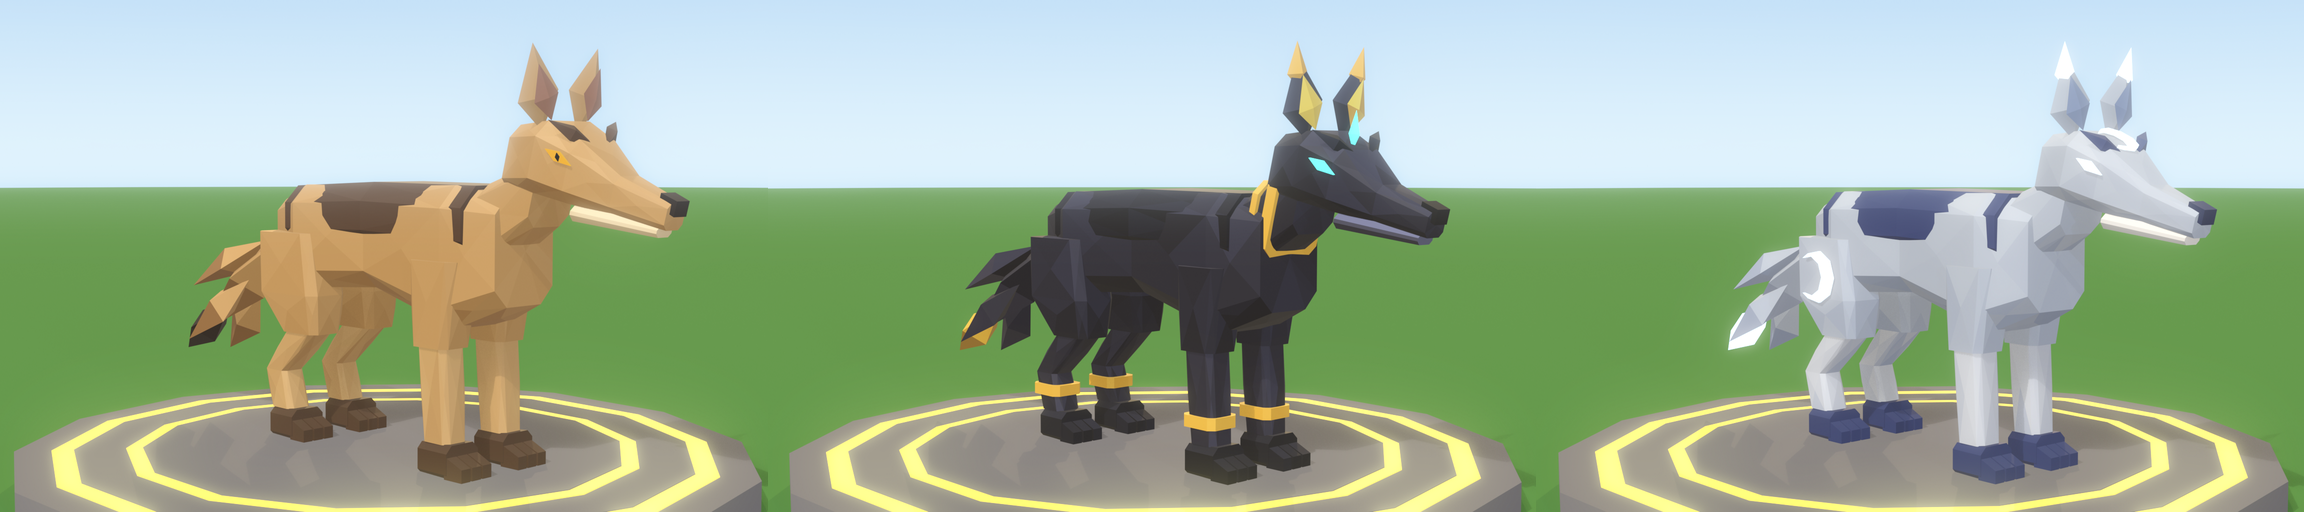
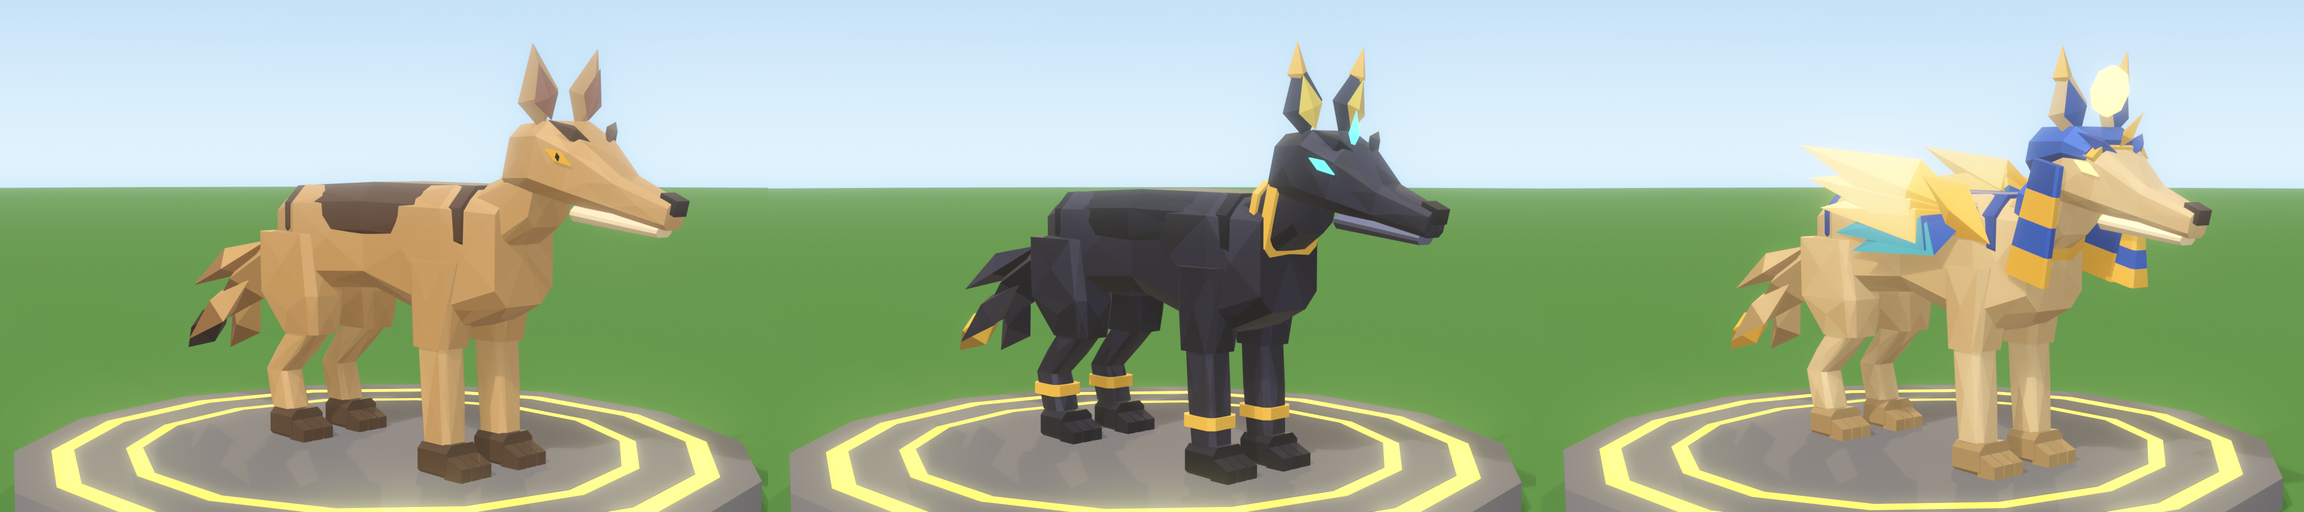
STATION-037: the new jackal variant is a Sphinx Jackal (headdress, sun disc, beard, folded wings), not a Moon Jackal

Changed region(s): [[0.6875, 0.0938, 1.0, 1.0]]

diff --git a/tools/blender/stations/assets/jackals.py b/tools/blender/stations/assets/jackals.py
@@ -1,5 +1,5 @@
 """The jackals (decision 0052), in the faceted low-poly style of the lions and elephants: the Jackal,
-the Pharaoh Jackal and the Moon Jackal. A lean body with a deep chest and a tucked waist on long thin
+the Pharaoh Jackal and the Sphinx Jackal. A lean body with a deep chest and a tucked waist on long thin
 legs, a long narrow muzzle, tall pointed ears, a dark saddle over the back and a bushy tail of leaf
 shards. The hide is textured with facets (`rough`), as on the elephants.
 
@@ -17,10 +17,10 @@ from mathutils import Matrix, Vector
 loft, yring, zring, quad, shard, plate, tone, rough = F.loft, F.yring, F.zring, F.quad, F.shard, F.plate, F.tone, F.rough
 
 SAND = ((0.82, 0.74, 0.66), (1.06, 1.08, 1.12), (6, 8, 10))
-MOONLIT = ((0.74, 0.8, 0.92), (1.05, 1.05, 1.03), (6, 6, 4))  # shadows turn blue
 GOLD = (236, 184, 64)
 TURQUOISE = (60, 230, 220)
-MOON = (160, 205, 255)
+SUNGOLD = (255, 208, 90)
+LAPIS = (38, 72, 168)
 HIND = 1.9  # how far behind the front legs the hind legs stand
 FADE = 1.6  # the hide darkens below this height
 NOD = 14  # degrees the head and neck are tipped down about the neck: a hunter carries its head low
@@ -157,26 +157,45 @@ def pharaoh_jackal():
     )
 
 
-def moon_extra(groups, skull, thighs, rng, glow):
-    """A glowing crescent on the brow and on each haunch, and glowing tips on the ears."""
-    arc = [math.radians(a) for a in range(60, 301, 40)]
-    crescent = [(0.16 * math.cos(a), 0.16 * math.sin(a)) for a in arc] + [(0.07 + 0.125 * math.cos(a), 0.125 * math.sin(a)) for a in reversed(arc)]
-    at, n = k.land(skull, (0, -0.92, 2.7), (0, -0.3, 1))
-    groups["head_glow"].append(plate("crescent", at, k._frame(n, (0, -1, 0)), crescent, 0.025, None, rng, lift=0.012, m=glow))
+def sphinx_extra(groups, skull, thighs, rng, glow):
+    """A pharaoh's striped headdress with its two lappets, a cobra and a glowing sun disc on the brow, a
+    gold beard, a broad collar, and a folded wing of gold and blue feathers down each flank."""
+    gold, blue = tone(GOLD), tone(LAPIS, F.COOL)
+    head, body = groups["head"], groups["body"]
+    # the headdress: a blue cap over the skull behind a gold band; the ears stand through it
+    head.append(loft("cap", [yring(-1.0, 2.79, 0.335, 0.16, 0.09, 0.1), yring(-0.8, 2.81, 0.4, 0.2, 0.13, 0.12), yring(-0.44, 2.72, 0.38, 0.2, 0.2, 0.12)], blue, rng))
+    head.append(loft("band", [yring(y, 2.8, 0.345, 0.11, 0.06, 0.09) for y in (-1.07, -0.98)], gold, rng))
     for s in (1, -1):
-        groups["head_glow"].append(shard((s * 0.34, -0.645, 3.26), (s * 0.395, -0.61, 3.6), 0.22, 0.12, None, rng, at=0.3, m=glow, name="eartip"))
-        at, n = k.land(thighs[s], (s * 0.3, HIND - 0.02, 1.55), (s, 0, 0))
-        fx, fy, fz = k._frame(n)
-        side = "leg_b" + ("l" if s > 0 else "r") + "_glow"
-        groups.setdefault(side, []).append(plate("crescent", at, (fx * s, fy, fz), [(u * 1.5, v * 1.5) for u, v in crescent], 0.025, None, rng, lift=0.014, m=glow))
+        x = s * 0.42
+        for i in range(4):  # a lappet hanging beside the neck, striped blue and gold, wider at the hem
+            z, wide = 2.7 - i * 0.24, 0.14 + i * 0.02
+            head.append(loft("lappet", [zring(x, -0.72, z, 0.045, wide, 0.02), zring(x, -0.72, z - 0.24, 0.045, wide + 0.02, 0.02)], blue if i % 2 == 0 else gold, rng))
+        head.append(shard((s * 0.34, -0.645, 3.26), (s * 0.395, -0.61, 3.6), 0.22, 0.12, gold, rng, at=0.3, name="eartip"))
+    head.append(shard((0, -1.04, 2.9), (0, -1.2, 3.22), 0.13, 0.11, gold, rng, at=0.35, name="cobra"))
+    disc = [(0.2 * math.cos(i * math.tau / 8), 0.2 * math.sin(i * math.tau / 8)) for i in range(8)]
+    groups["head_glow"].append(plate("disc", Vector((0, -0.8, 3.3)), (Vector((1, 0, 0)), Vector((0, 0, 1)), Vector((0, -1, 0))), disc, 0.06, None, rng, m=glow))
+    for i in range(3):  # the false beard: a short striped block under the chin, wider at the hem
+        z, wide = 2.33 - i * 0.14, 0.07 + i * 0.015
+        head.append(loft("beard", [zring(0, -1.34 - i * 0.02, z, wide, wide, 0.025), zring(0, -1.36 - i * 0.02, z - 0.14, wide + 0.015, wide + 0.015, 0.025)], gold if i % 2 == 0 else blue, rng))
+    for y, zc, w, up, down, thick, tones in ((-0.56, 2.23, 0.31, 0.33, 0.38, 0.07, gold), (-0.42, 2.11, 0.335, 0.355, 0.41, 0.04, blue)):
+        head.append(loft("collar", [yring(y + dy, zc, w, up, down, 0.1) for dy in (-thick, thick)], tones, rng))
+    # the wings, folded: five feathers from each shoulder back along the flank, gold above and blue below
+    pale = tone((255, 226, 140))
+    for s in (1, -1):
+        root = Vector((s * 0.5, 0.0, 2.2))
+        for i in range(5):
+            d = Vector((s * 0.14, 1, 0.3 - 0.15 * i)).normalized()
+            tones = (gold, pale) if i < 3 else (blue, tone((60, 150, 200), F.COOL))
+            body.append(shard(root - d * 0.15, root + d * (2.0 - 0.17 * i), 0.56, 0.12, tones, rng, face=(s, 0, 0.2), at=0.35, name="feather"))
+        body.append(shard(root + Vector((0, -0.3, -0.25)), root + Vector((s * 0.06, 0.45, 0.3)), 0.5, 0.16, gold, rng, face=(s, 0, 0), name="shoulder"))
 
 
-def moon_jackal():
-    """Moon Jackal (mythic): a silver-white coat with a deep blue saddle and socks, a glowing crescent on
-    the brow, glowing eyes, ear tips and tail tip."""
+def sphinx_jackal():
+    """Sphinx Jackal (mythic): a sandstone jackal in a pharaoh's blue and gold headdress, with a gold
+    beard and collar, folded wings of gold and blue feathers, a glowing sun disc and glowing eyes."""
     return jackal_model(
-        dict(kind=MOONLIT, coat=(182, 198, 228), legs=(204, 216, 240), dark=(48, 62, 124), pale=(236, 242, 252), paw=(52, 66, 126), nose=(38, 46, 80), ear_in=(128, 150, 202),
-             tail=(168, 186, 226), tip="glow", glow=MOON, glow_eyes=True, extra=moon_extra),
+        dict(coat=(216, 188, 136), legs=(224, 200, 152), dark=LAPIS, pale=(240, 224, 184), paw=(176, 146, 98), nose=(60, 46, 36), ear_in=LAPIS,
+             tail=(190, 160, 108), tip=GOLD, glow=SUNGOLD, glow_eyes=True, extra=sphinx_extra),
         12,
     )
 
@@ -184,5 +203,5 @@ def moon_jackal():
 ASSETS = [
     F.asset("creature_jackal", jackal, 1.18, {}, "Jackal: a lean faceted pack hunter with a dark saddle and a bushy tail."),
     F.asset("creature_jackal_pharaoh", pharaoh_jackal, 1.45, {"head_glow": TURQUOISE}, "Pharaoh Jackal (legendary): black with gold bands; eyes and brow gem are Neon."),
-    F.asset("creature_jackal_moon", moon_jackal, 1.53, {"head_glow": MOON, "tail_glow": MOON, "leg_bl_glow": MOON, "leg_br_glow": MOON}, "Moon Jackal (mythic): silver with a deep blue saddle, a Neon crescent on the brow."),
+    F.asset("creature_jackal_sphinx", sphinx_jackal, 1.53, {"head_glow": SUNGOLD}, "Sphinx Jackal (mythic): sandstone, a blue and gold headdress, folded wings, a Neon sun disc."),
 ]

diff --git a/docs/decisions/0052-animal-stations-faceted-jackals.md b/docs/decisions/0052-animal-stations-faceted-jackals.md
@@ -1,4 +1,4 @@
-# 0052: Animal Stations: the jackals go faceted, and a Moon Jackal
+# 0052: Animal Stations: the jackals go faceted, and a Sphinx Jackal
 
 Status: proposed (concepts for SHANNON; nothing is in the game yet)
 Date: 2026-11-15. Builds on 0050 (the faceted lions) and 0051 (the elephants, the textured hide). Task STATION-037.
@@ -8,29 +8,31 @@ Date: 2026-11-15. Builds on 0050 (the faceted lions) and 0051 (the elephants, th
 SHANNON asked for the same for the hyenas, and chose the Jackals when asked which animal that meant:
 a restyle of the Jackal and the Pharaoh Jackal, and one new variant to propose.
 
-- The Jackal, the Pharaoh Jackal and a new Moon Jackal are built in
+- The Jackal, the Pharaoh Jackal and a new Sphinx Jackal are built in
   `tools/blender/stations/assets/jackals.py`: a lean body with a deep chest and a tucked waist on long
   thin legs, a long narrow muzzle, big pointed ears, a dark saddle over the back, small dark paws and a
   bushy tail of leaf shards. The head is carried low (the head and neck nod 14 degrees about the neck).
-  The hide has the elephants' facets. About 1,400 to 1,550 triangles each.
+  The hide has the elephants' facets. About 1,400 to 1,900 triangles each.
 - Jackal: sandy, a dark brown saddle, a pale lower jaw, dark paws and tail tip, amber eyes.
 - Pharaoh Jackal (legendary, as now): black, with gold collars, anklets, ear tips and tail tip,
   turquoise glowing eyes and a glowing gem on the brow.
-- Moon Jackal (new, proposed mythic, twist speed): silver-white with a deep blue saddle and socks, a
-  glowing crescent on the brow and on each haunch (as the Sun Lion has its sun), glowing eyes, ear tips
-  and tail tip. Mythic is the free tier: the Pharaoh Jackal is the legendary one.
+- Sphinx Jackal (new, proposed mythic, twist speed): sandstone, in a pharaoh's blue and gold striped
+  headdress with its two lappets and a cobra, a glowing sun disc between the ears, a striped false beard,
+  a gold and blue collar, a blue saddle, a folded wing of gold and blue feathers down each flank, a gold
+  tail tip and glowing gold eyes. Mythic is the free tier: the Pharaoh Jackal is the legendary one.
+  A first proposal, a silver Moon Jackal, was dropped: SHANNON asked for a sphinx instead.
 - The faceted helpers the three families share now live in `tools/blender/stations/facet.py`; the
   lions and the elephants build exactly as before the move.
-- Each is scaled to the length of the model it replaces (7.4 and 9.1 studs; the Moon Jackal 9.6).
+- Each is scaled to the length of the model it replaces (7.4 and 9.1 studs; the Sphinx Jackal 9.6).
 
 ## Open for SHANNON
 
 - Approve the three looks, or ask for changes.
-- The Moon Jackal: its name, its tier (mythic) and its twist (speed, the Jackal's best stat).
+- The Sphinx Jackal: its tier (mythic) and its twist (speed, the Jackal's best stat).
 
 ## Not done
 
 Concepts only: nothing is uploaded, `StationConfig`, `StationAssets` and the manifest are unchanged,
-and the game still shows the old jackals. The clips have not been seen on the new shapes. The Moon
-Jackal's crescents on the haunches are glow pieces that ride on the hind legs, which no model in the
-game has had before; the rig allows it, but it has not been seen in the game.
+and the game still shows the old jackals. The clips have not been seen on the new shapes. The Sphinx
+Jackal's wings are part of the body and its headdress part of the head: they move with those pieces
+and do not flap or sway.

diff --git a/docs/game-design/game7-animals.md b/docs/game-design/game7-animals.md
@@ -60,7 +60,7 @@ player is about 5 tall).
 |---|---|---|---|---|---|
 | Jackal | Attack | common | 42 / 22 / 15 / 18 / 30 / 10 | Lean sandy hunter, big pointed ears, long muzzle, dark saddle, bushy tail. | 4 x 7 |
 | Pharaoh Jackal | | legendary | twist mana | Black coat, gold collar and anklets, turquoise glowing eyes and brow gem. | 5 x 9 |
-| Moon Jackal (concept, not in the game yet) | | mythic (proposed) | twist speed (proposed) | Silver-white with a deep blue saddle and socks, a glowing crescent on the brow and each haunch, glowing eyes, ear tips and tail tip. Card: `docs/concepts/moon-jackal-card.png`. | about 5 x 10 |
+| Sphinx Jackal (concept, not in the game yet) | | mythic (proposed) | twist speed (proposed) | Sandstone, a pharaoh's blue and gold striped headdress, a glowing sun disc between the ears, a striped beard, a gold collar, folded wings of gold and blue feathers, glowing gold eyes. Card: `docs/concepts/sphinx-jackal-card.png`. | about 5 x 10 |
 | Meerkat | Utility | common | 30 / 8 / 15 / 42 / 25 / 8 | Small and quick, tan with dark bands across the back and dark eye patches. | 2 x 5 |
 | Storm Meerkat | | legendary | twist mana | Thundercloud coat, glowing bands across the back, a charged tail tip. | 3 x 6 |
 | Flamingo | Utility | uncommon | 30 / 10 / 30 / 65 / 50 / 15 | Tall pink wader, hooked black-tipped beak, hard stare. Two legs: its wings are built as the back legs. | 8 x 6 |
